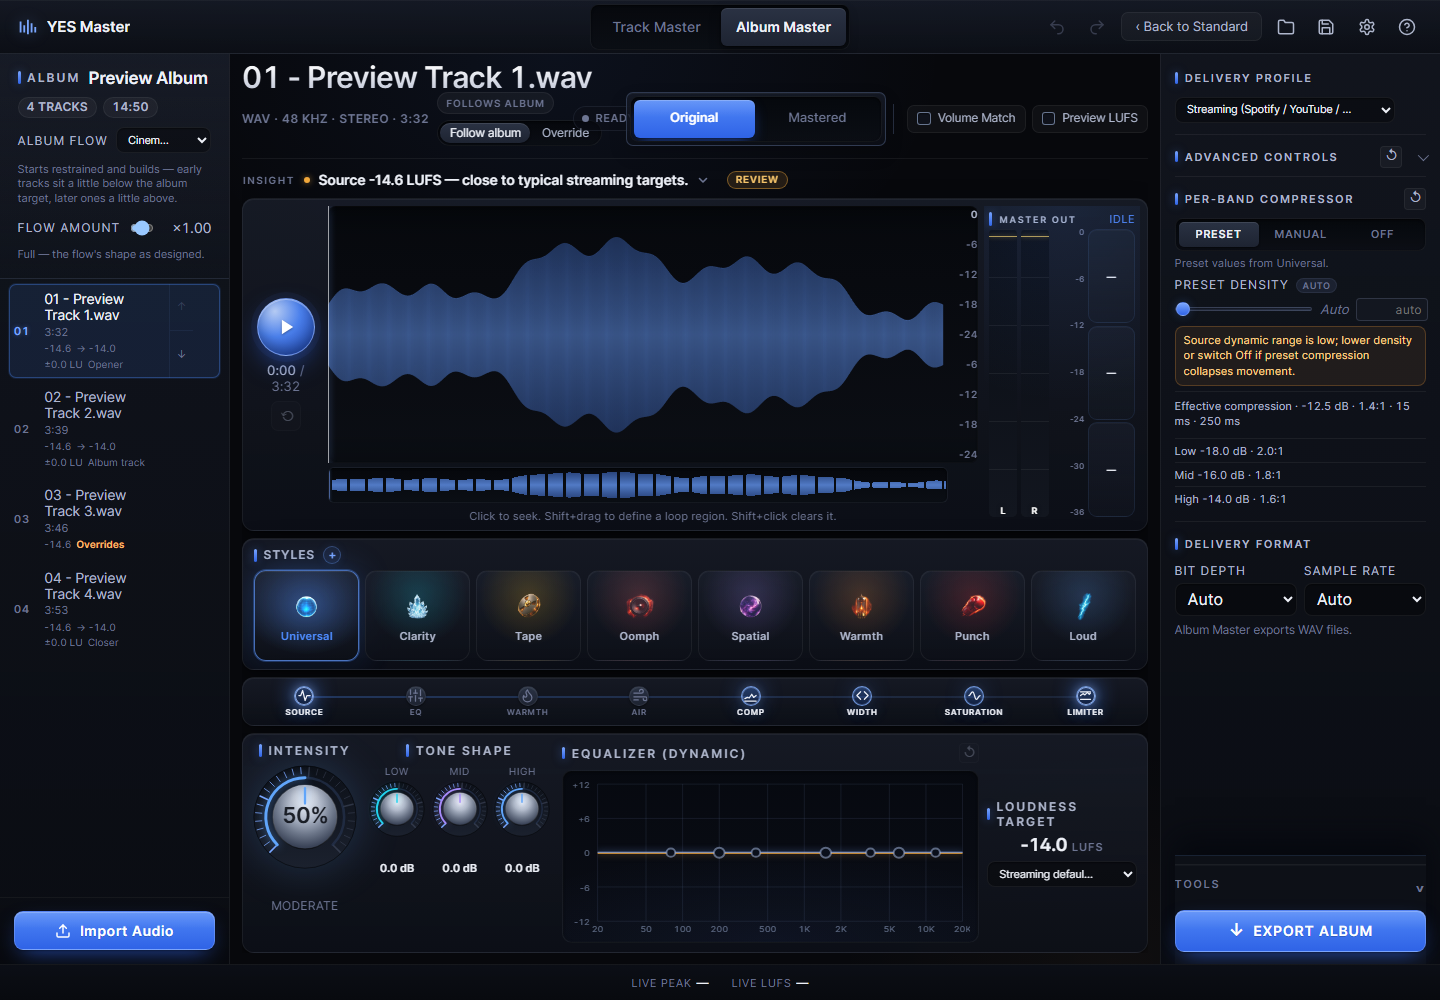
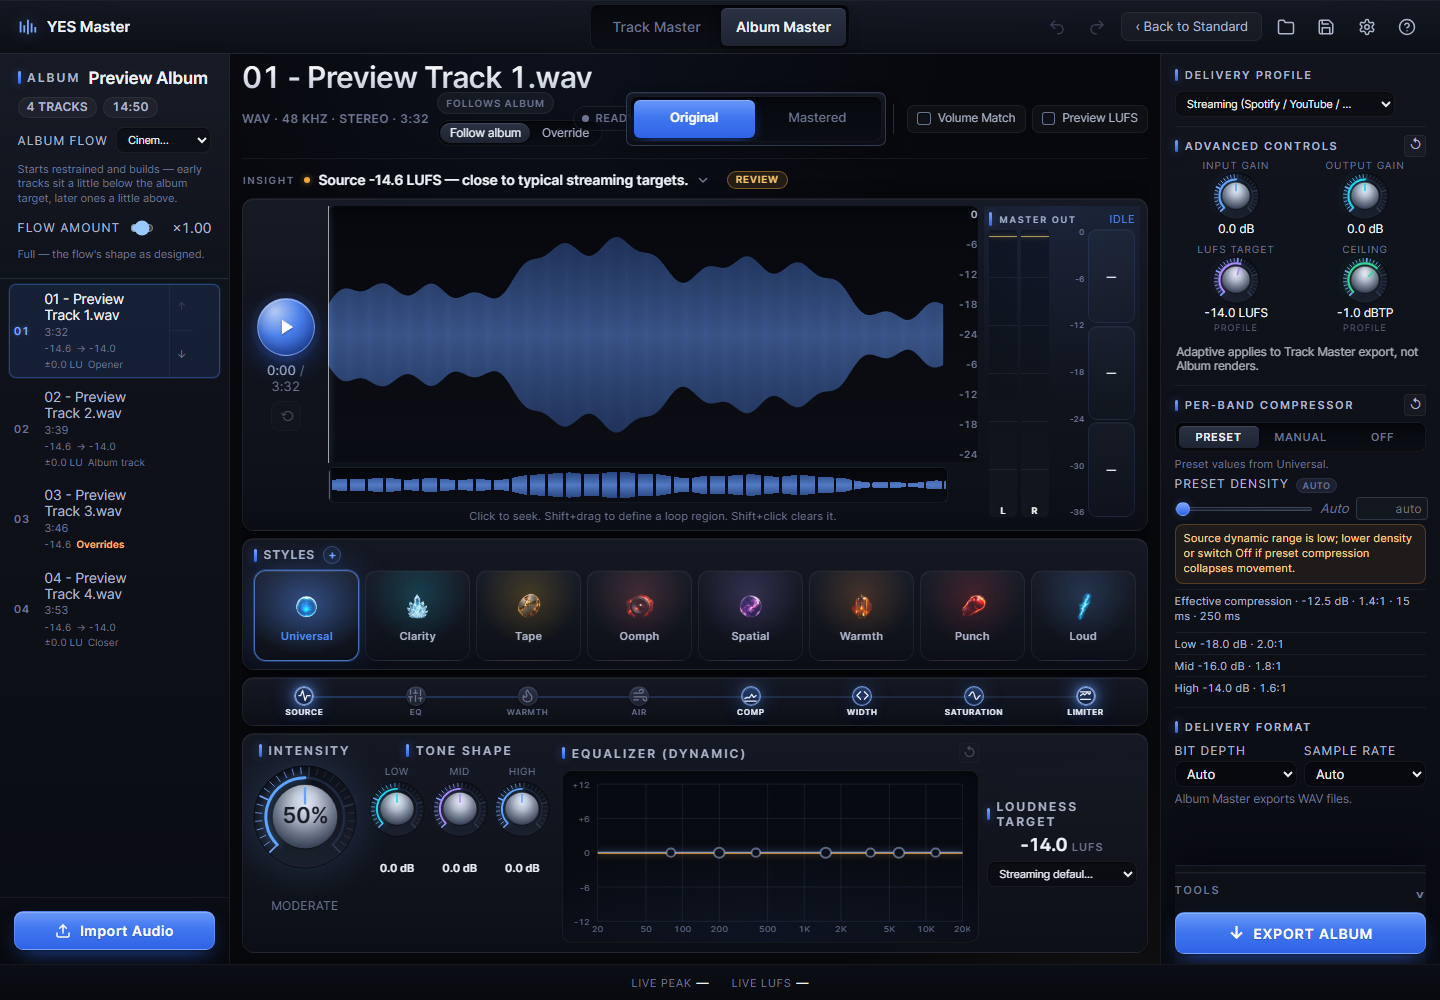
design(rail): Advanced Controls always open; rail fits 1440x900 with everything expanded, no scrollbar
Owner ask. Advanced Controls is a plain section (no disclosure). Density
trims per section (measured at Advanced open + Manual compressor):
Delivery 74→66, Advanced 249→222, Compressor 327→295, Format 127→108,
Export group 109→99 — content 790px in an 810px rail at 1440x900, so no
scrollbar; 1920x1080 likewise. 1366x768 (min-spec) still scrolls slightly
with a narrow-rail rule that stacks each feel-control slider under its
label instead of wrapping.

Changed region(s): [[0.8125, 0.062, 1.0, 0.806], [0.8438, 0.899, 0.9688, 0.961], [0.8125, 0.868, 0.8438, 0.899]]

diff --git a/src/App.css b/src/App.css
@@ -7809,6 +7809,60 @@ details.rail-section > summary.rail-section-head:hover .panel-title { color: var
   padding: 0 0.25rem;
 }
 
+/* --- Rail density: everything open must fit 1440x900 without scrolling ---
+   (owner ask 2026-08-18). Trims are per-section, not "make everything tiny":
+   section padding, select heights, knob envelope inside the rail, and the
+   export group's own padding. Measured: Delivery 74→~58, Advanced 249→~215,
+   Compressor(Manual) 327→~295, Format 127→~104, Export group 109→~92. */
+
+.rail-section { padding: 0.5rem 0 0.55rem; }
+.rail-section:first-child { padding-top: 0.3rem; }
+.rail-section-head { min-height: 1.35rem; margin-bottom: 0.32rem; }
+.rail-card-delivery .loudness-profile-select { padding-top: 0.28rem; padding-bottom: 0.28rem; }
+
+/* Knobs inside the rail: same knob, tighter envelope. */
+.adv-knob-grid,
+.compressor-knob-grid { gap: 0.05rem 0.35rem; }
+.adv-knob-grid .knob,
+.compressor-knob-grid .knob { gap: 0.1rem; }
+.adv-knob-grid .knob-vis,
+.compressor-knob-grid .knob-vis { transform: scale(0.86); margin: -0.28rem auto -0.32rem; }
+.adv-knob-grid .knob-caption { margin-top: -0.05rem; }
+.adv-knob-grid { padding: 0.15rem 0 0.05rem; margin-bottom: 0.25rem; }
+.rail-card-advanced .advanced-grid { gap: 0.25rem 0.8rem; padding-top: 0.3rem; }
+.rail-card-advanced .adv-field { gap: 0.18rem; }
+.rail-card-advanced .adaptive-block { padding-top: 0.05rem; }
+
+/* Compressor */
+.compressor-mode-tabs { margin-bottom: 0.28rem; }
+.compressor-mode-tab { padding: 0.28rem 0.4rem; }
+.compressor-mode-note { margin-bottom: 0.28rem; }
+.per-band-row { margin: 0 0 0.3rem; }
+.compressor-knob-grid { padding: 0.25rem 0.3rem 0.15rem; }
+.compressor-density-field { margin-bottom: 0.25rem; }
+.compressor-preset-summary,
+.compressor-adaptive-band { padding: 0.22rem 0; }
+
+/* Delivery Format */
+.rail-format-grid { gap: 0.3rem 0.6rem; }
+.rail-format-grid .adv-field { gap: 0.18rem; }
+.rail-format-grid .adv-select { padding: 0.24rem 0.45rem; font-size: 0.8rem; }
+.rail-card-format .format-note { margin-top: 0.3rem; }
+
+/* Tools + export */
+.right-rail-export-group { padding: 0.35rem 0 0.6rem; gap: 0.3rem; }
+.right-rail-tools > summary { padding: 0.4rem 0 0.25rem; }
+.right-rail-export { padding: 0.68rem 1rem; }
+
+/* Narrow rail (≤1400px → 280px): the feel-control rows would otherwise
+   wrap their slider/value/field onto extra lines and double the section. */
+@media (max-width: 1400px) {
+  .rail-card-advanced .adv-control { grid-template-columns: 1fr auto; }
+  .rail-card-advanced .adv-control .adv-number { grid-column: 2; }
+  .rail-card-advanced .adv-control input[type="range"] { grid-column: 1 / -1; grid-row: 2; }
+  .rail-card-advanced .adv-control .adv-value { grid-column: 1; grid-row: 1; text-align: left; }
+}
+
 .source-insight-toggle.is-static { cursor: default; }
 .source-insight-toggle.is-static:hover { background: transparent; border-color: transparent; }
 .source-insight-headline.is-muted { color: var(--text-2); font-weight: 500; }

diff --git a/src/components/AdvancedPanel.tsx b/src/components/AdvancedPanel.tsx
@@ -299,15 +299,16 @@ function AdvancedControlsCard({
     });
   };
   return (
-    <details className="rail-section rail-card-advanced">
-      <summary className="panel-head panel-head-summary rail-section-head">
+    <section className="rail-section rail-card-advanced">
+      {/* 2026-08-18 (owner): always open — with the rail flattened there is
+          room for it, and the knobs are the mastering identity of the rail. */}
+      <header className="panel-head rail-section-head">
         <span className="panel-title">ADVANCED CONTROLS</span>
         <PanelResetButton
           label="Reset advanced controls"
           onClick={resetAdvancedControls}
         />
-        <span className="panel-chevron" aria-hidden>⌄</span>
-      </summary>
+      </header>
       {/* 2026-08-18 (owner): the four "numbers you know" — gains, target,
           ceiling — are knobs (same family as the per-band compressor), each
           with a typeable field; the four "feel" controls below stay half-width
@@ -446,7 +447,7 @@ function AdvancedControlsCard({
           <AdaptiveReadout readout={adaptiveReadout} />
         ) : null}
       </div>
-    </details>
+    </section>
   );
 }
 
